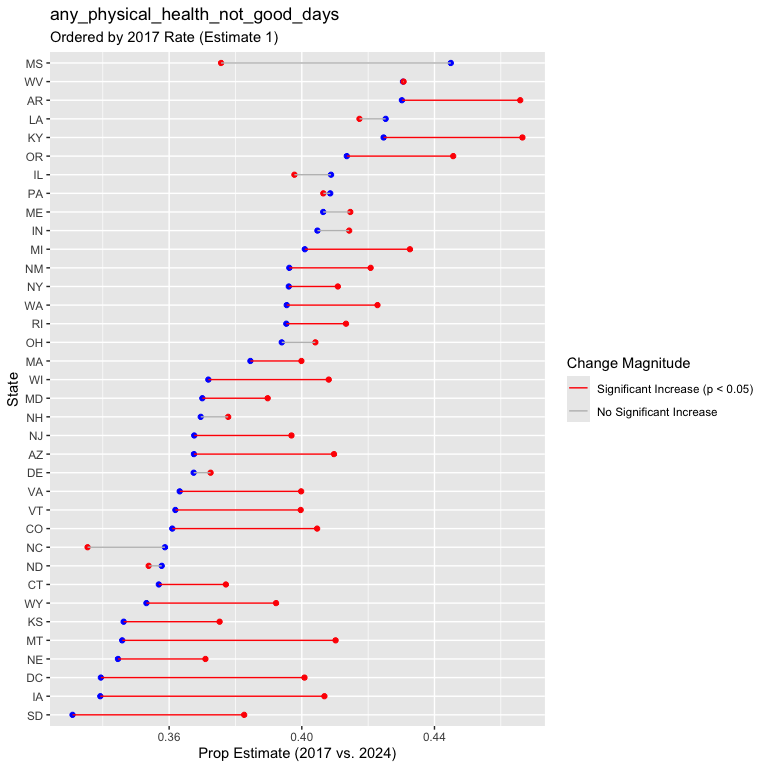
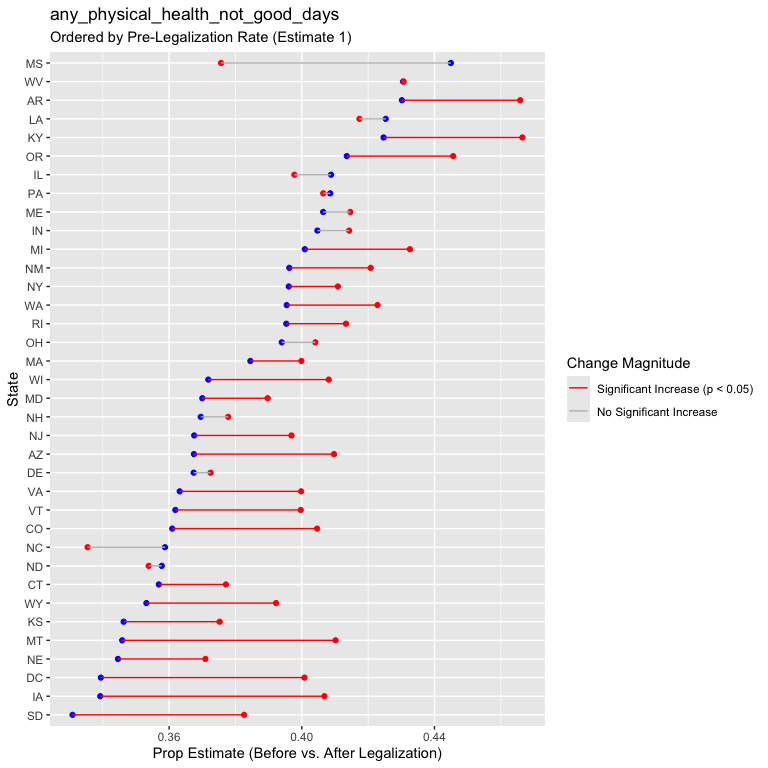
correcting labels

Changed region(s): [[0.1875, 0.9688, 0.5625, 1.0], [0.1562, 0.0312, 0.4375, 0.0625]]

diff --git a/eda/brfss_prop_tests.md b/eda/brfss_prop_tests.md
@@ -112,7 +112,6 @@ plot_outcome_props = function(df){
     geom_point(aes(x = estimate1), color = "blue") +
     geom_point(aes(x = estimate2), color = "red") +
     geom_segment(aes(x = estimate1, xend = estimate2, color = significant_increase)) + 
-    xlab("Prop Estimate (2017 vs. 2024)") +
     scale_color_manual(
       values = c("TRUE" = "red", "FALSE" = "gray"),
       labels = c("Significant Increase (p < 0.05)", "No Significant Increase"),
@@ -252,7 +251,6 @@ plot_outcome_props = function(df){
     geom_point(aes(x = estimate1), color = "blue") +
     geom_point(aes(x = estimate2), color = "red") +
     geom_segment(aes(x = estimate1, xend = estimate2, color = significant_increase)) + 
-    xlab("Prop Estimate (2017 vs. 2024)") +
     scale_color_manual(
       values = c("TRUE" = "red", "FALSE" = "gray"),
       labels = c("Significant Increase (p < 0.05)", "No Significant Increase"),
@@ -260,8 +258,8 @@ plot_outcome_props = function(df){
     ) +
     labs(
       title = outcome,
-      subtitle = "Ordered by 2017 Rate (Estimate 1)",
-      x = "Prop Estimate (2017 vs. 2024)",
+      subtitle = "Ordered by Pre-Legalization Rate (Estimate 1)",
+      x = "Prop Estimate (Before vs. After Legalization)",
       y = "State"
     )
 }
